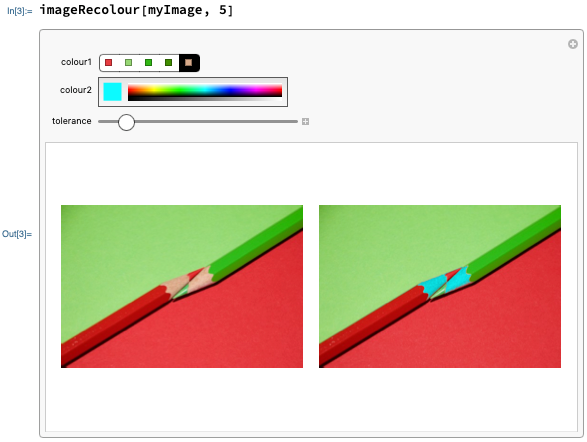
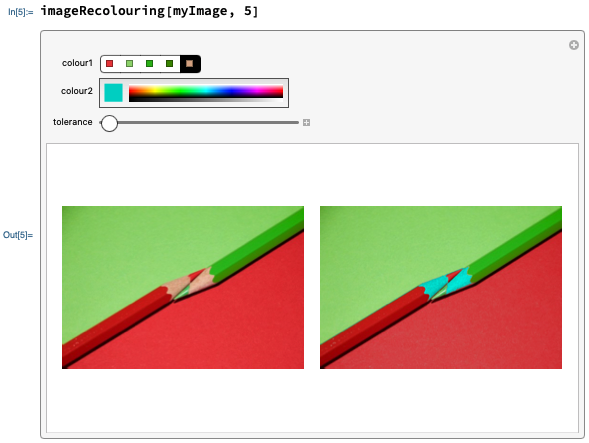
Fixed final image

diff --git a/en/solutions/solutions.md b/en/solutions/solutions.md
@@ -37,8 +37,6 @@ ImageRecolor[
 
 ## Creating a tool
 
---- task ---
-
 Use `Manipulate` to change the tolerance level:
 
 ```
@@ -108,4 +106,4 @@ imageRecolouring[image_, numberOfColours_] :=
     ]
 ```
 
-![Colouring function](../images/ColouringFunction.png)
+![Pencil Manipulate 3](../images/PencilManipulate3.png)
